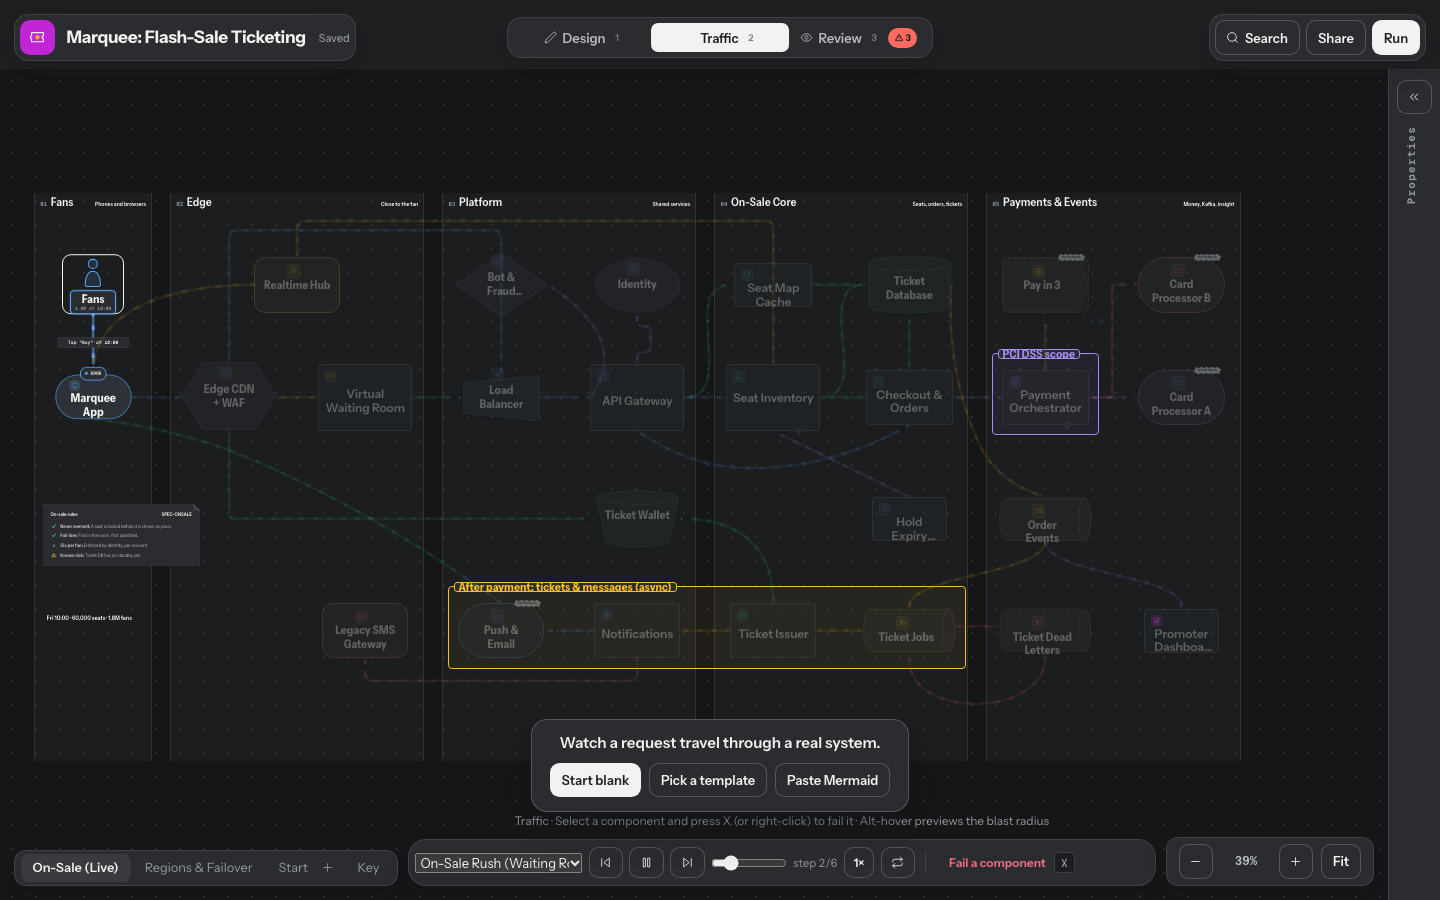
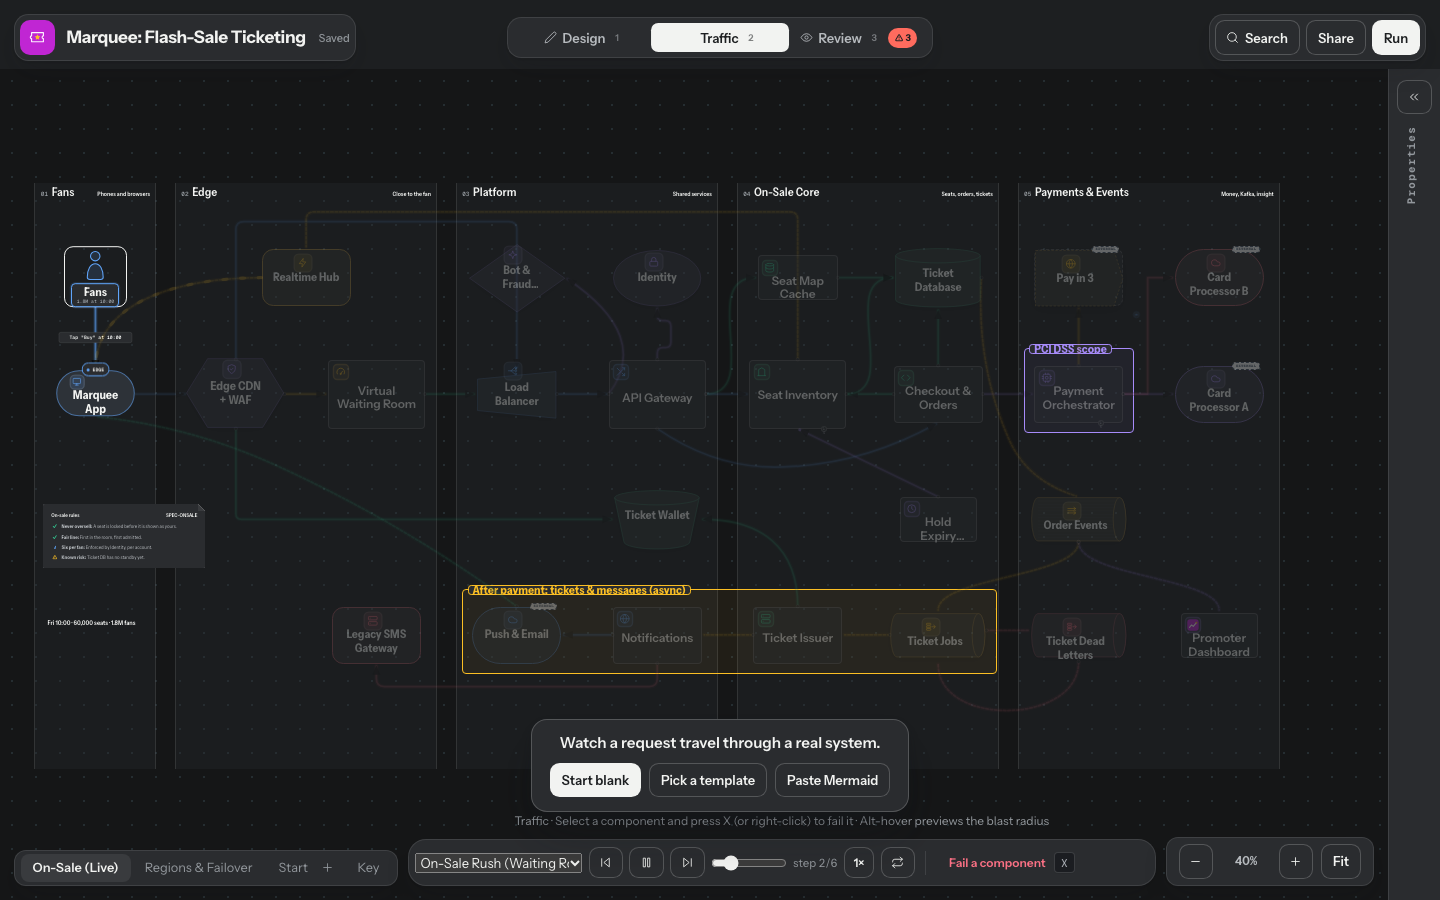
docs: 3.0 pictures in the README and guide (R3)

diff --git a/docs/guide.md b/docs/guide.md
@@ -8,9 +8,9 @@ Design mode is the drafting surface. The stencil palette sits on the left, the c
 
 The tools (Select, Wire, Hand, Text and Frame) are at the top of the left panel whether the component list is open or folded. The menu button at the right of the top bar holds file, view and settings actions such as Save, Export, Auto-Layout and Preferences. `Cmd/Ctrl+K` searches every action.
 
-![Design mode with a starter pair, the stencil palette, and the property inspector](images/design-canvas.png)
+![The Design lens fitted to the Marquee showcase: lenses on top, the dock at the bottom, zoom at the bottom right](images/design-canvas.png)
 
-![Data View with tone filters, lineage, and the inspector beside the canvas](images/data-view.png)
+![A component selected at 100%, with its properties open on the right](images/design-selected.png)
 
 ## Lenses
 

diff --git a/REDESIGN_PLAN_V3.md b/REDESIGN_PLAN_V3.md
@@ -905,7 +905,7 @@ Every item updates `diagramSvg.ts`, `standaloneHtml.ts` and the shared styles in
 #### [ ] R3. Ship 3.0.0 · S
 - **Do:** release notes, guide screenshots, version, merge `v3` into `main`.
 - **Needs:** the owner's go-ahead. Do not merge to `main` without it.
-- **Prepared (R3):** `package.json` is 3.0.0 and `RELEASE_NOTES.md` has the 3.0.0 notes. Not done: guide screenshots (`docs/guide.md` still shows 2.x pictures; the eight 3.0 views are in `docs/v3/after/`), README media, and the merge of `v3` into `main`, which waits for the owner.
+- **Prepared (R3):** `package.json` is 3.0.0 and `RELEASE_NOTES.md` has the 3.0.0 notes. Guide and README pictures are now the 3.0 views (`docs/images/`, from `docs/v3/after/`). Not done: the merge of `v3` into `main`, which waits for the owner.
 
 ### Baseline (filled in by Z1)
 

diff --git a/README.md b/README.md
@@ -2,7 +2,7 @@
 
 **ConduitCraft** is an open-source architecture diagramming studio with animated traffic and scenarios. The idea is three steps: **draw it, run it, ship it.** Draw a system on a blank canvas, or import a Mermaid flowchart. Run it, by watching requests travel and failing a component to see what breaks. Ship it as a self-contained page, a picture or a GIF.
 
-![Failing a component in the Traffic lens: the failed component, what becomes unreachable and what reroutes](docs/images/traffic-failure.png)
+![The Traffic lens on the Marquee showcase: a degraded component, with the summary of what is unreachable or rerouted](docs/images/traffic-failure.png)
 
 ## Draw it, run it, ship it
 
